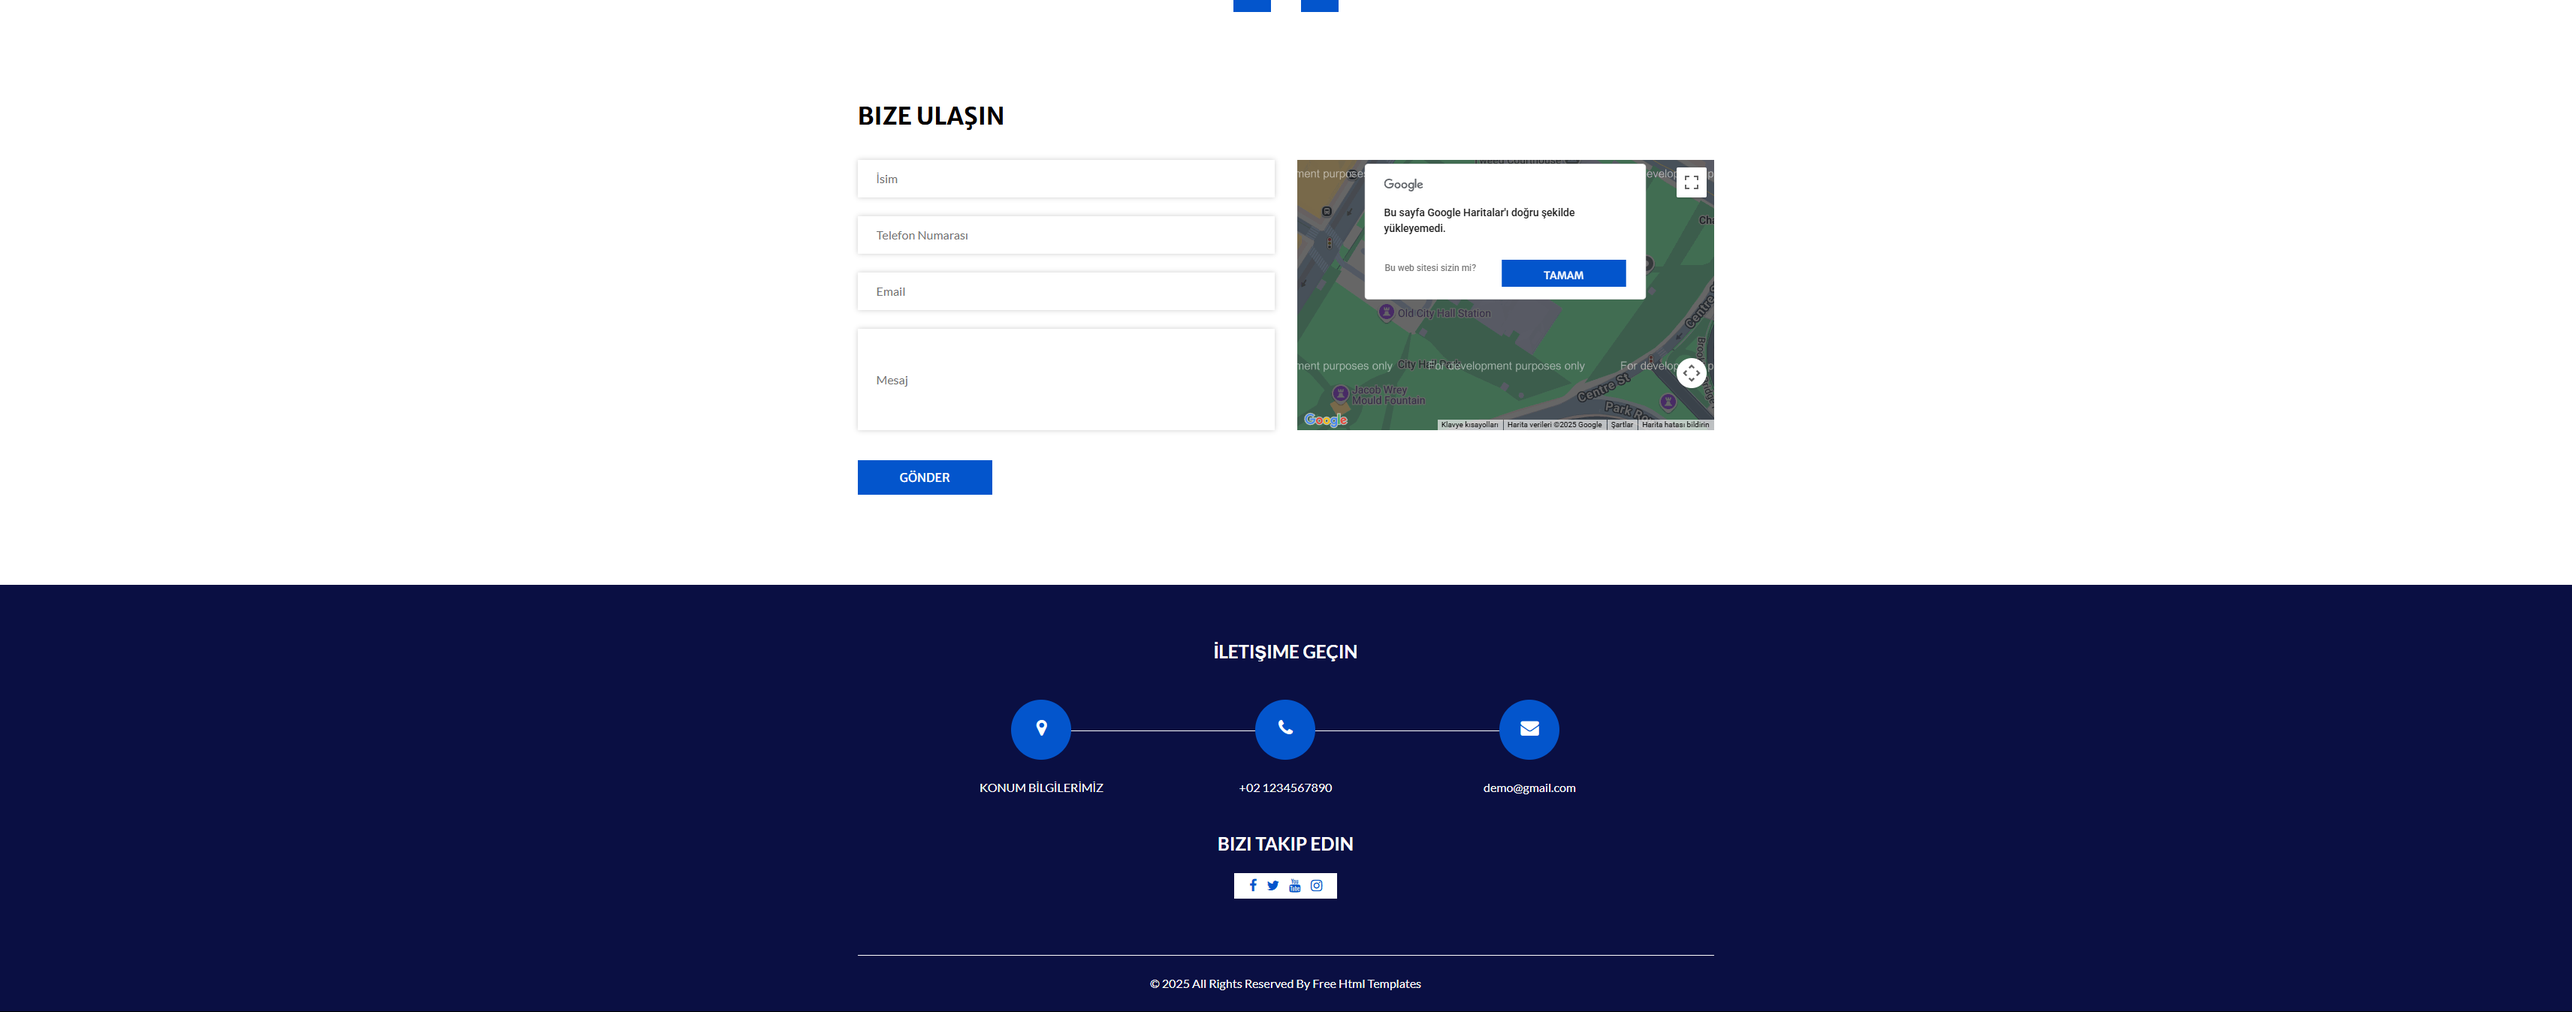
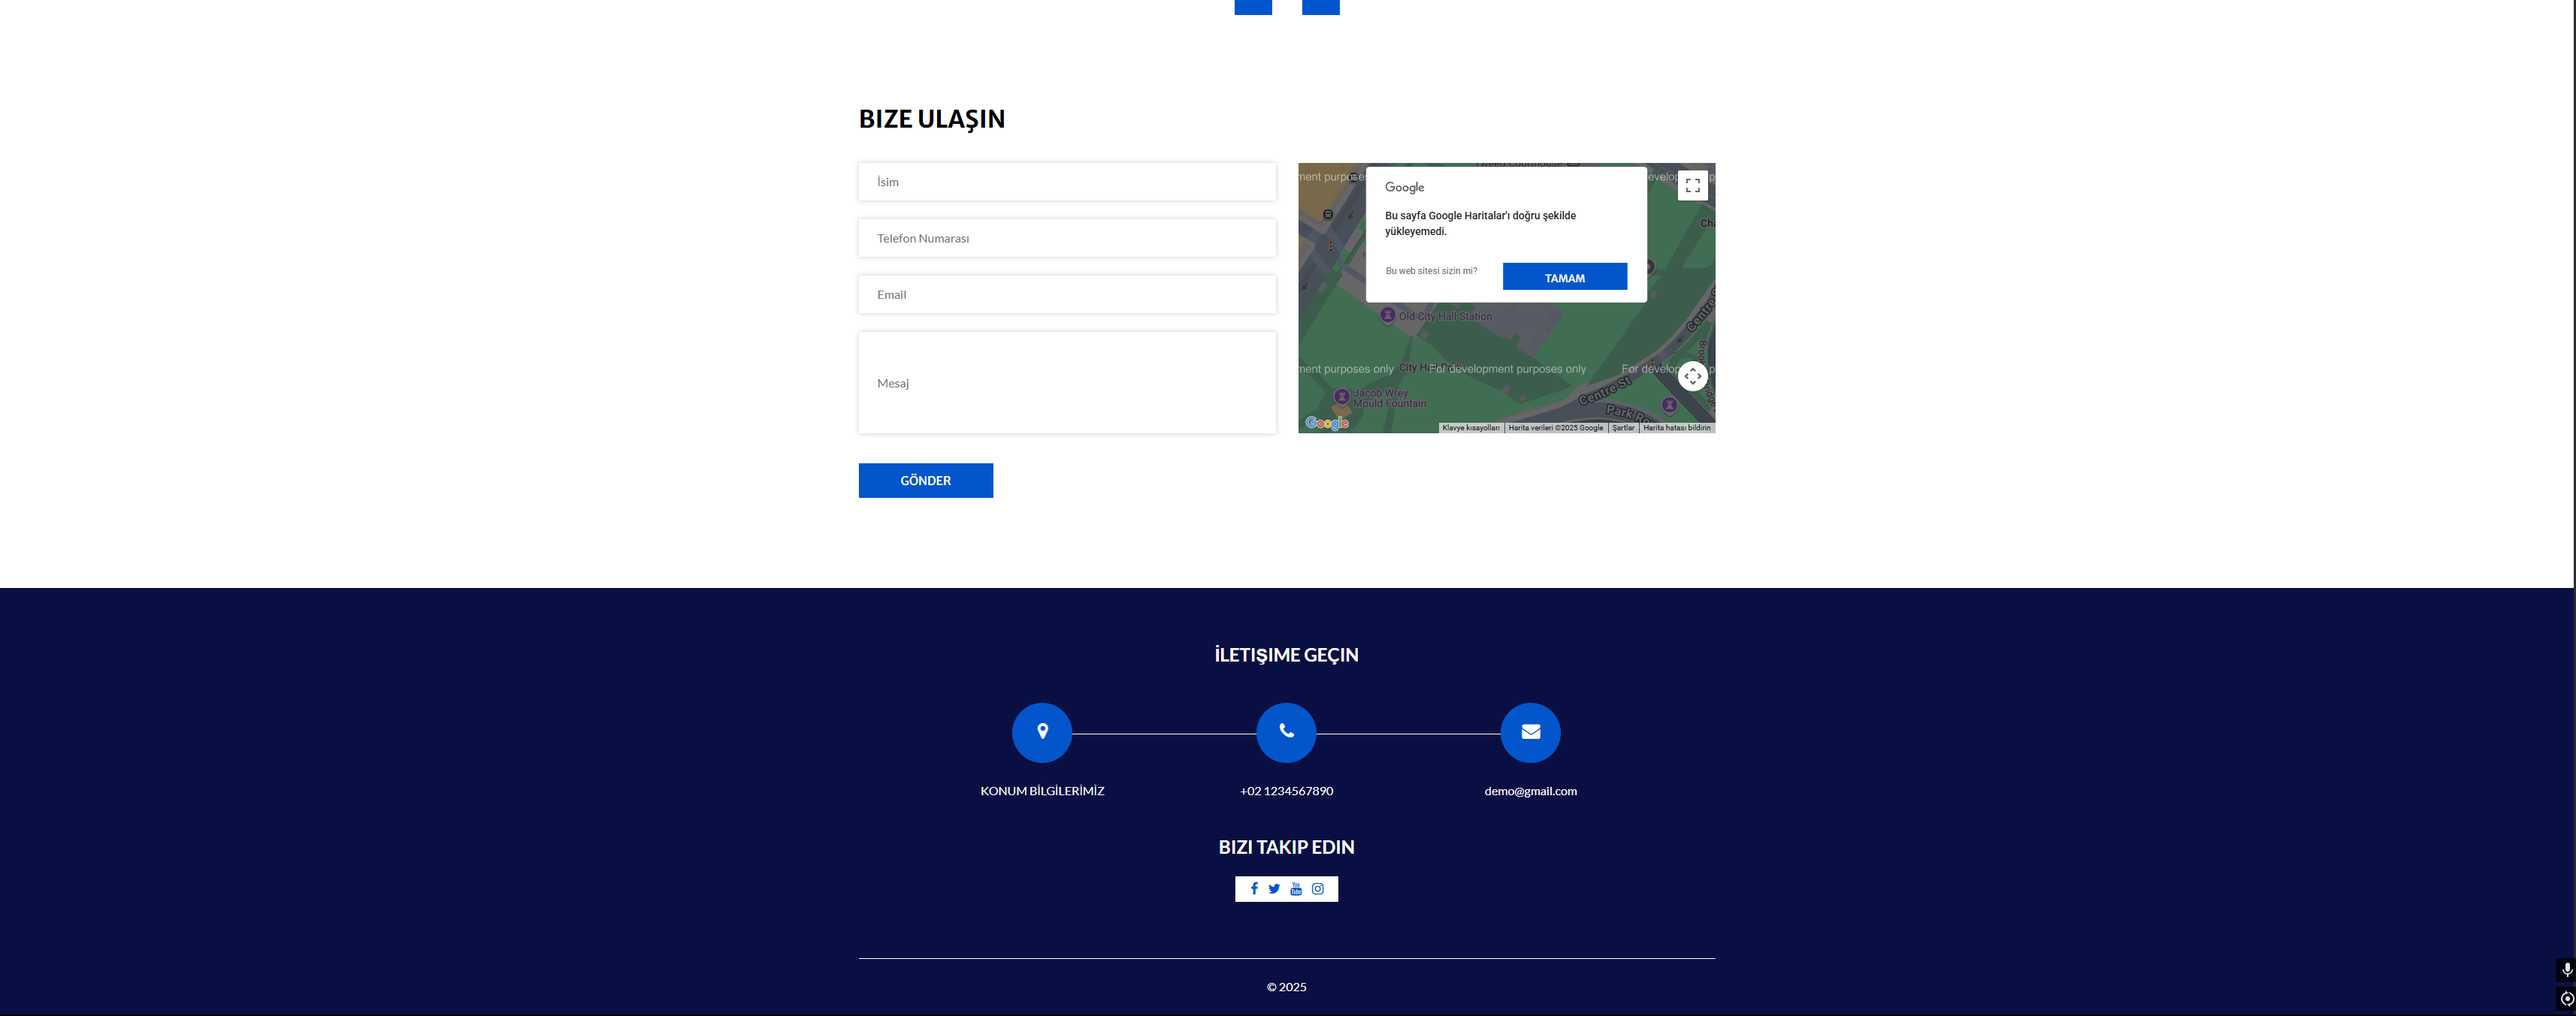
website
görseller düzeltildi.

diff --git a/basit site örneği/inance-html/index.html b/basit site örneği/inance-html/index.html
@@ -542,8 +542,8 @@ Evlerinizde sadece arızaları değil, güveni ve konforu da onarıyoruz. Her ad
   <footer class="footer_section">
     <div class="container">
       <p>
-        &copy; <span id="displayDateYear"></span> All Rights Reserved By
-        <a href="https://html.design/">Free Html Templates</a>
+        &copy; <span id="displayDateYear"></span> 
+        <a href="https://html.design/"></a>
       </p>
     </div>
   </footer>
